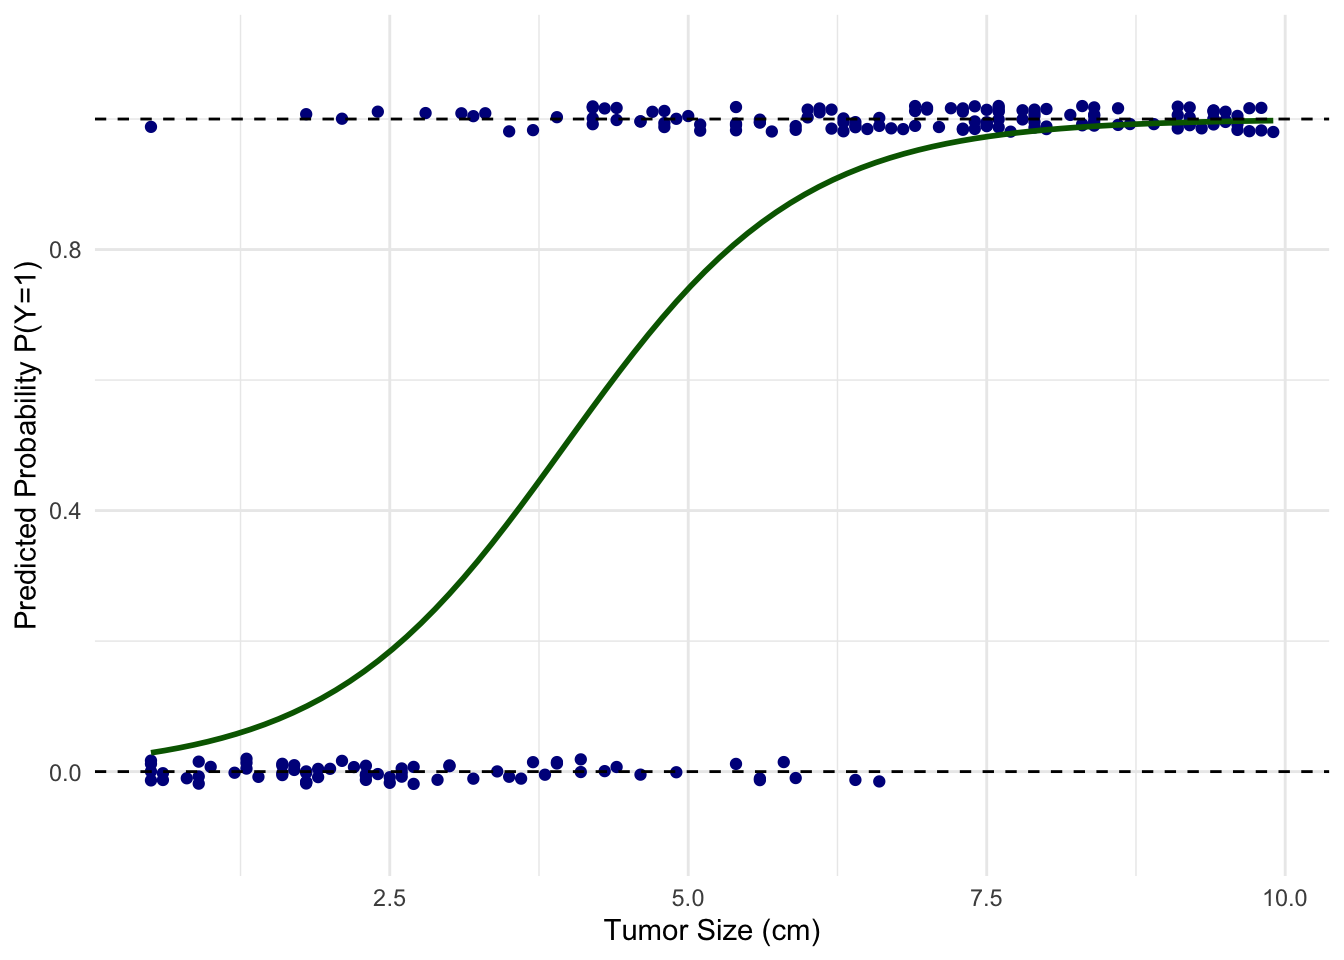
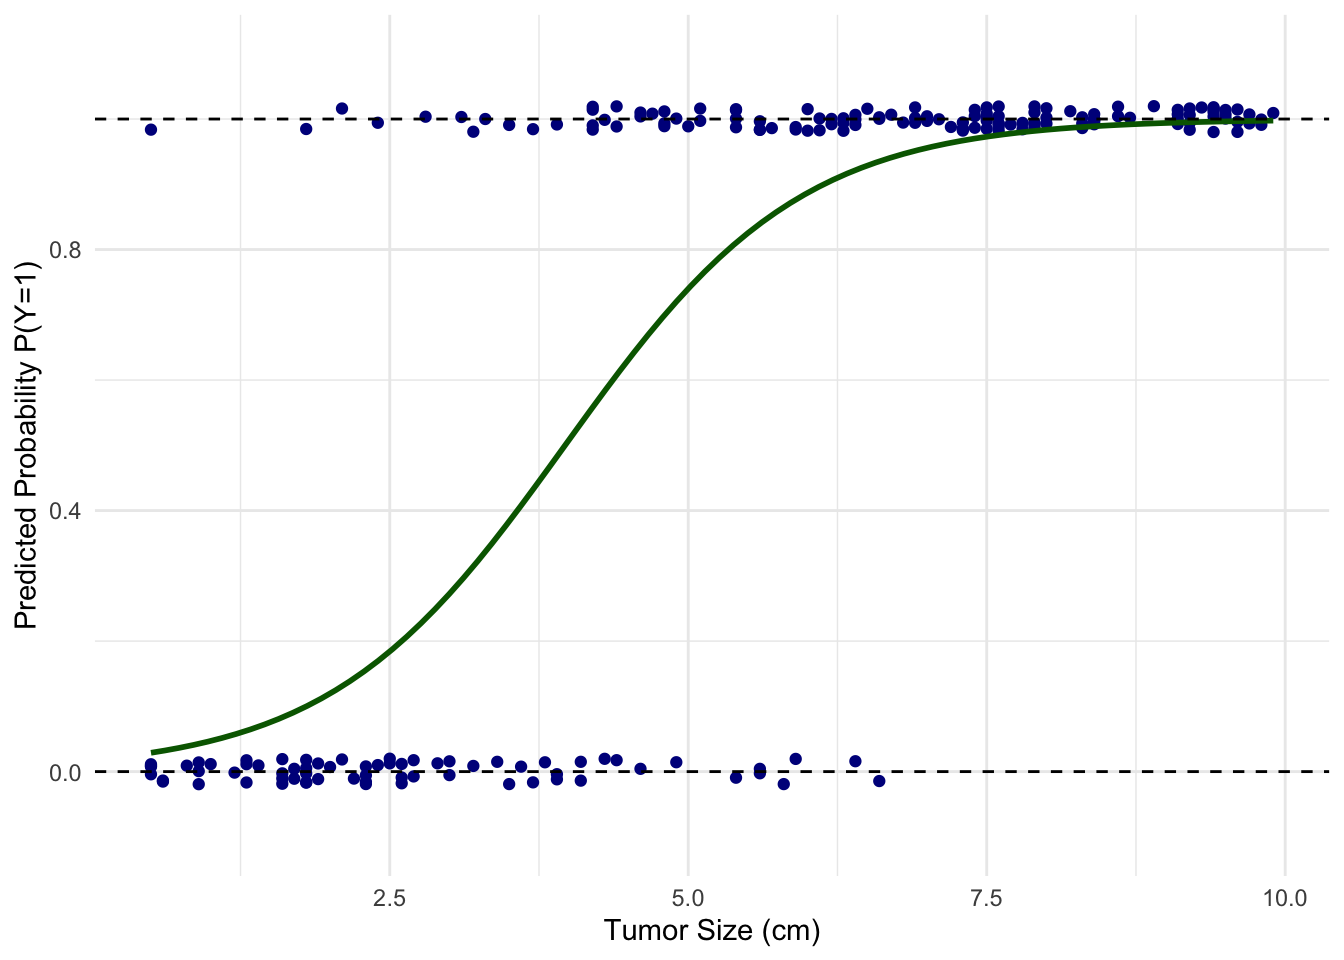
Built site for gh-pages

diff --git a/session-1.html b/session-1.html
@@ -228,7 +228,12 @@ ul.task-list li input[type="checkbox"] {
 <section id="omop-common-data-model" class="level2" data-number="3">
 <h2 data-number="3" class="anchored" data-anchor-id="omop-common-data-model"><span class="header-section-number">3</span> OMOP Common Data Model</h2>
 <p>Raw data collected from various EHR systems lack standardization that makes analysis challenging. The <em>All of Us</em> Research Program harmonizes the data in accordance to the <a href="https://ohdsi.github.io/CommonDataModel/index.html">OMOP CDM</a> framework in which clinical terms such as medication names, diagnoses, procedures, etc, are mapped to the OMOP standard vocabulary. For example, SNOMED is the standard vocabulary for conditions and RxNorm is the standard vocabulary for drugs. Then, all concepts are assigned an “OMOP Concept ID”, which is globally unique across all concept domains, allowing an accurate and efficient query. Refer to this support article for more details: <a href="https://support.researchallofus.org/hc/en-us/articles/360039585391-Understanding-OMOP-Basics">Understanding OMOP Basics</a></p>
-<p>A good way to look up a concept is <a href="https://athena.ohdsi.org">Athena database</a>. I often use Athena to: - obtain the code or concept ID for a term - inspect hierarchical relationship of a concept - translate between different vocabularies (for example, between ICD-10 and SNOMED)</p>
+<p>A good way to look up a concept is <a href="https://athena.ohdsi.org">Athena database</a>. I often use Athena to:</p>
+<ul>
+<li>obtain the code or concept ID for a term</li>
+<li>inspect hierarchical relationship of a concept</li>
+<li>translate between different vocabularies (for example, between ICD-10 and SNOMED)</li>
+</ul>
 </section>
 <section id="relational-database" class="level2" data-number="4">
 <h2 data-number="4" class="anchored" data-anchor-id="relational-database"><span class="header-section-number">4</span> Relational Database</h2>